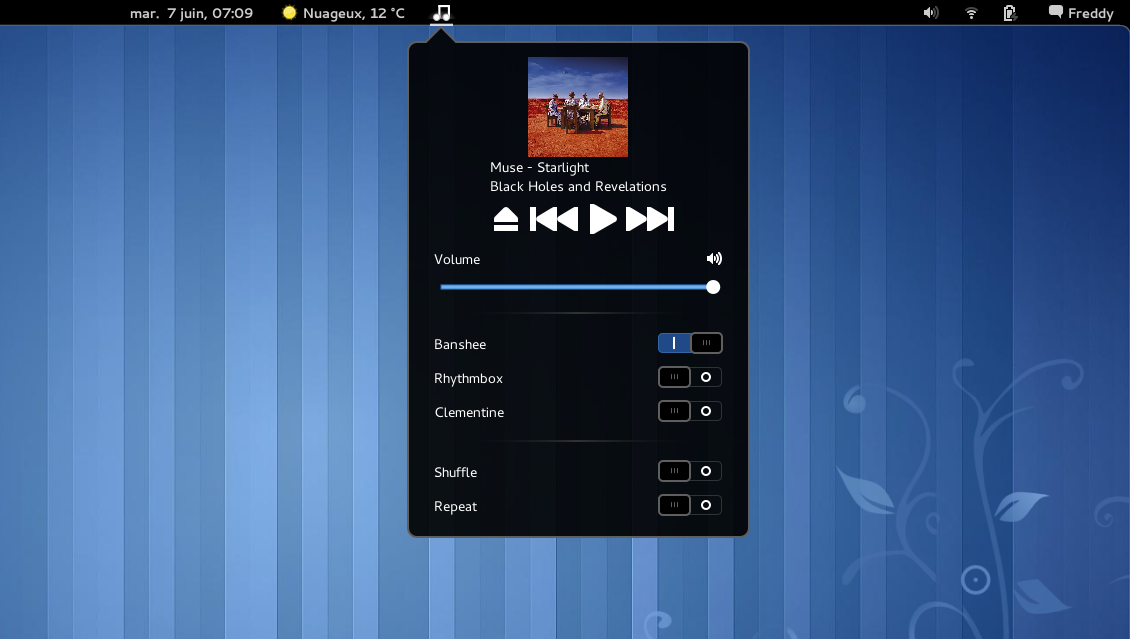
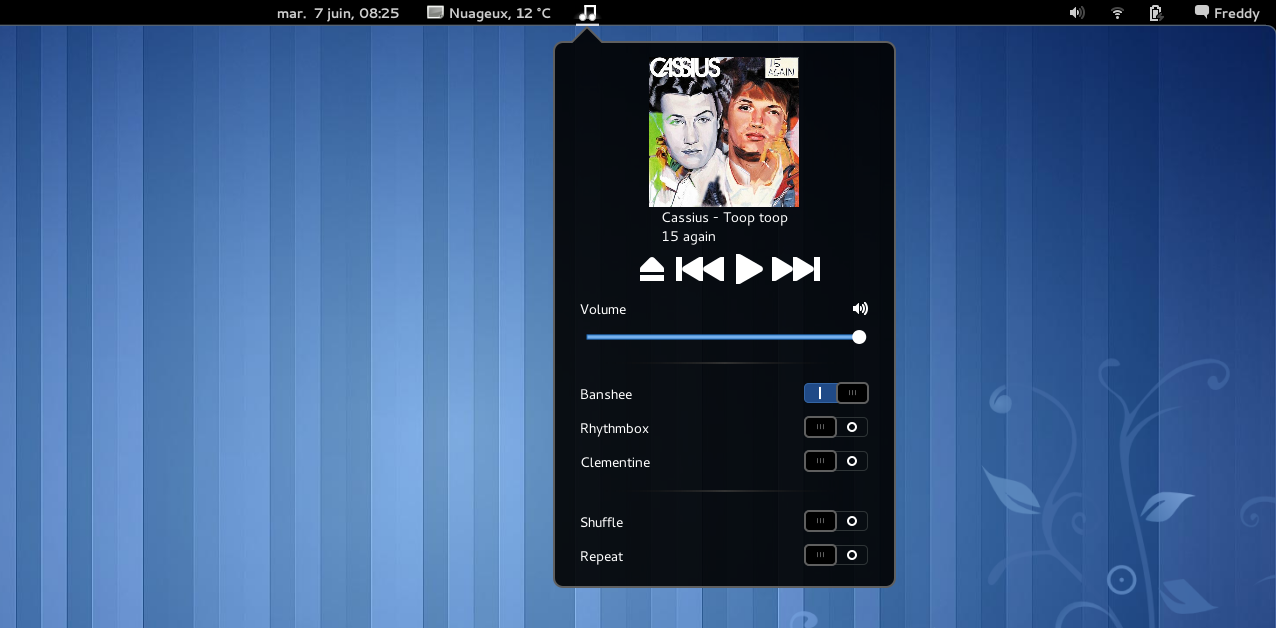
Buttons control added

diff --git a/mediasplayers@ycdref/extension.js b/mediasplayers@ycdref/extension.js
@@ -347,7 +347,7 @@ Indicator.prototype = {
 	    _createcover: function (pathToC) {
 	    	let coverA = new Clutter.Texture({
 	        	keep_aspect_ratio: true,
-	        	width: 100,
+	        	width: 150,
 	        	filename: pathToC});
 	    	this._songCover.set_child(coverA);
 	    },
